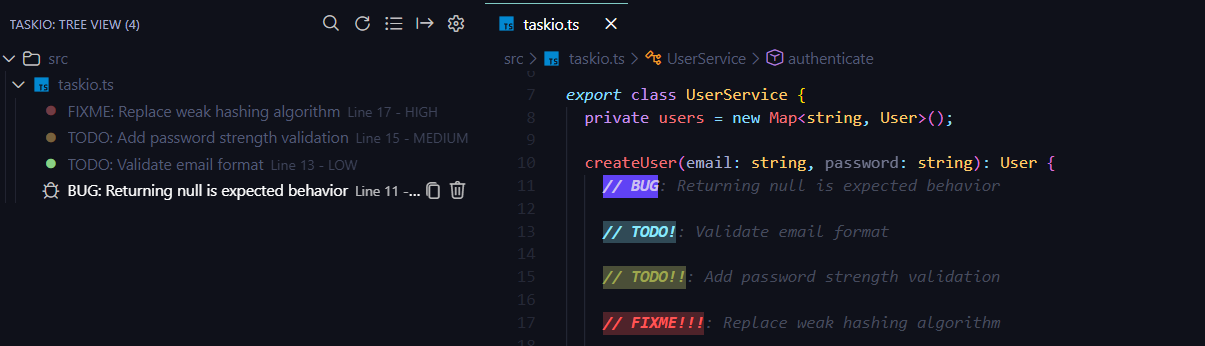
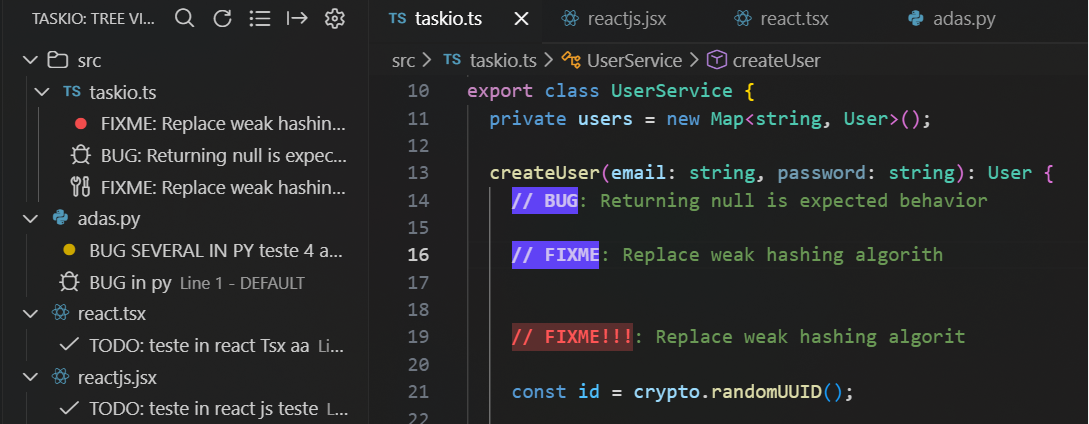
fix: improve readme.md with new images

diff --git a/README.md b/README.md
@@ -1,13 +1,19 @@
 # Taskio
 
-Turn TODO, FIXME and BUG comments into an organized task board inside VS Code.
+Taskio is a lightweight task board for VS Code that turns `TODO`, `FIXME` and `BUG` comments into actionable work.
 
-Taskio helps you spot code comments that deserve attention, keep them grouped in one place, and act on them without leaving the editor.
+Instead of letting technical debt disappear inside source files, Taskio keeps those comments visible in a dedicated Tree View, where they can be searched, grouped, prioritized and exported in just a few clicks.
+
+It is designed for developers who already use code comments to mark future work and want a cleaner, faster way to track what still needs attention without switching tools.
+
+Taskio supports priority markers like `!`, `!!` and `!!!`, custom keywords, highlight colors, task export to JSON, Markdown or TXT, and optional Trello integration for teams that want a more connected workflow.
+
+No setup is required for the core workflow. Install Taskio and start organizing the comments already living in your codebase.
 
 <div align="center">
 
   <p align="center">
-    <img src="https://raw.githubusercontent.com/criszst/taskio/master/assets/mk.gif" width="900" alt="Taskio demo animation" />
+    <img width="900" src="https://raw.githubusercontent.com/criszst/taskio/master/assets/demonstration.png" alt="Taskio tree view screenshot" />
   </p>
 
 </div>
@@ -23,22 +29,10 @@ Taskio turns those comments into a visible workflow so you can find pending work
 If you already leave TODOs in your codebase, Taskio gives them a home.
 
 <div align="center">
-  <img width="1205" height="346" src="https://raw.githubusercontent.com/criszst/taskio/master/assets/demonstration.png" alt="Taskio tree view screenshot" />
+  <p align="center">
+    <img src="https://raw.githubusercontent.com/criszst/taskio/master/assets/mk.gif" width="900" alt="Taskio demo animation" />
+  </p>
 </div>
-
----
-
-## Marketplace Description
-
-Taskio is a lightweight task board for VS Code that turns `TODO`, `FIXME` and `BUG` comments into actionable work.
-
-Instead of letting technical debt disappear inside source files, Taskio keeps those comments visible in a dedicated Tree View, where they can be searched, grouped, prioritized and exported in just a few clicks.
-
-It is designed for developers who already use code comments to mark future work and want a cleaner, faster way to track what still needs attention without switching tools.
-
-Taskio supports priority markers like `!`, `!!` and `!!!`, custom keywords, highlight colors, task export to JSON, Markdown or TXT, and optional Trello integration for teams that want a more connected workflow.
-
-No setup is required for the core workflow. Install Taskio and start organizing the comments already living in your codebase.
 
 ---
 
@@ -63,21 +57,25 @@ No setup is required for the core workflow. Install Taskio and start organizing 
 
 ---
 
-## Screenshots Order
+### See what needs attention first.
 
-Use the images in this order in the README and Marketplace gallery:
+<div align="center">
+  <img width="900" src="https://raw.githubusercontent.com/criszst/taskio/master/assets/priority.png" alt="Taskio tree view screenshot" />
+</div>
 
-1. `Overview` - show the Taskio Tree View with several tasks already discovered.
-   - Caption: `Turn code comments into a visible task board.`
-2. `Priority` - show `!`, `!!` and `!!!` in the code and in the task list.
-   - Caption: `See what needs attention first.`
-3. `Search` - show the search command filtering tasks across the workspace.
-   - Caption: `Find tasks fast across the whole project.`
-4. `Grouping` - show tasks organized by priority, file or folder.
-   - Caption: `Keep technical debt organized your way.`
-5. `Trello` - show a task being sent or synced with Trello.
-   - Caption: `Move tasks into your existing workflow.`
 
+### Find tasks fast across the whole project.
+
+<div align="center">
+  <img width="900" src="https://raw.githubusercontent.com/criszst/taskio/master/assets/searchCommand.png" alt="Taskio tree view screenshot" />
+</div>
+
+
+### Move tasks into your existing workflow.
+
+<div align="center">
+  <img width="900" src="https://raw.githubusercontent.com/criszst/taskio/master/assets/trelloExample.png" alt="Taskio tree view screenshot" />
+</div>
 ---
 
 ## Commands
@@ -171,6 +169,10 @@ Taskio supports exporting tasks for documentation or reporting:
 - TXT for a quick plain-text export
 
 Exported tasks include file path, line number, priority and clean descriptions.
+
+<div align="center">
+  <img width="900" src="https://raw.githubusercontent.com/criszst/taskio/master/assets/exportExample.png" alt="Taskio tree view screenshot" />
+</div>
 
 ---
 
